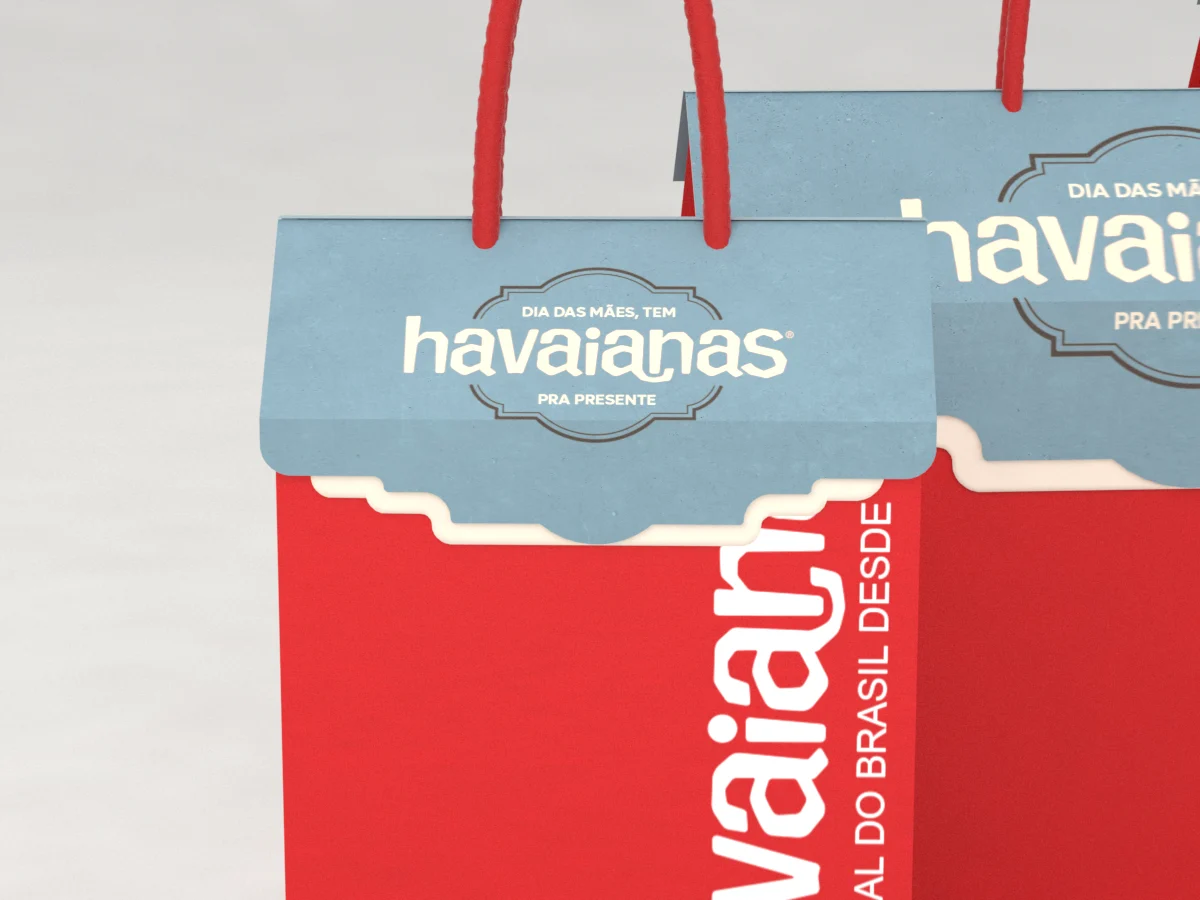
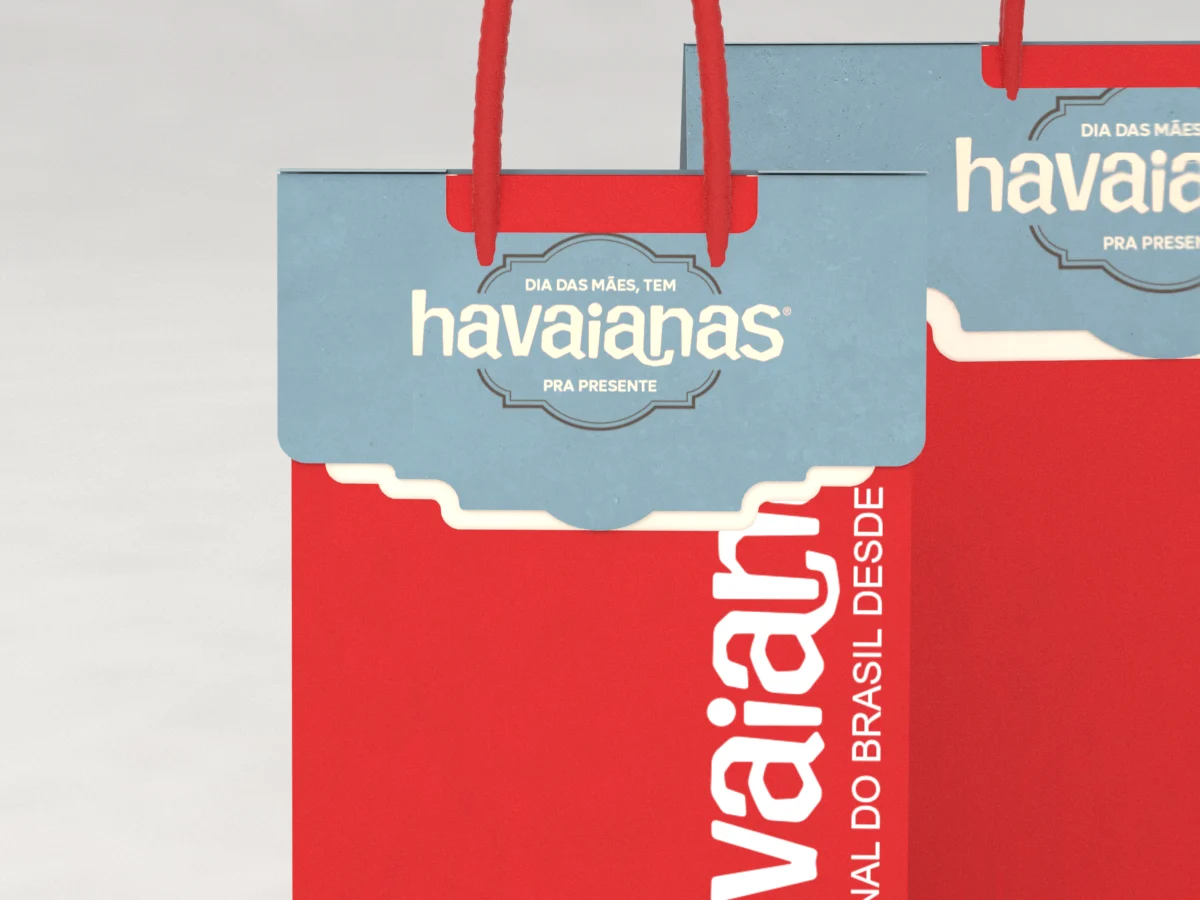
HAV009 R05: sacolas so frontal, solapa refeita, vitrine com luz corrigida

Changed region(s): [[0.2158, 0.0, 1.0, 1.0]]

diff --git a/havaianas-aura-maes-75lab/index.html b/havaianas-aura-maes-75lab/index.html
@@ -9,7 +9,7 @@
 <meta name="robots" content="noindex">
 <link rel="preconnect" href="https://fonts.googleapis.com"><link rel="preconnect" href="https://fonts.gstatic.com" crossorigin>
 <link href="https://fonts.googleapis.com/css2?family=Big+Shoulders+Display:wght@700;900&family=Space+Grotesk:wght@400;500;600;700&family=Space+Mono:wght@400;700&display=swap" rel="stylesheet">
-<link rel="stylesheet" href="assets/deck.css"><link rel="stylesheet" href="assets/bombril.css"><link rel="stylesheet" href="assets/v2.css"><link rel="stylesheet" href="assets/havaianas.css?v=202611251616">
+<link rel="stylesheet" href="assets/deck.css"><link rel="stylesheet" href="assets/bombril.css"><link rel="stylesheet" href="assets/v2.css"><link rel="stylesheet" href="assets/havaianas.css?v=202611251620">
 </head>
 <body>
 <svg width="0" height="0" style="position:absolute" aria-hidden="true">
@@ -158,9 +158,9 @@
 <section id="embalagens" class="tela s-core n" data-tema="escuro" data-titulo="Embalagens" data-cap="(02) Lojas próprias">
     <div class="caixa"><div class="gr-core">
       <div class="txt-core"><span class="eyebrow anima">Loja própria · embalagens</span><h2 class="anima">O KV vai <span class="t-lime">para casa.</span></h2><p class="lead anima d1">Dois caminhos para a sacola: impressa com a arte da campanha, ou a sacola vermelha vigente com uma solapa promocional de fechamento. Caixas só no vermelho, com luvas de borda creme; caixa envelope com a alça no topo.</p>
-        <div class="abas-b vers anima d2"><button data-aba="0" class="on" data-cursor="Ver"><i>01</i><b>Sacola impressa</b></button><button data-aba="1" class="" data-cursor="Ver"><i>02</i><b>Impressa · 3/4</b></button><button data-aba="2" class="" data-cursor="Ver"><i>03</i><b>Solapa</b></button><button data-aba="3" class="" data-cursor="Ver"><i>04</i><b>Solapa · 3/4</b></button><button data-aba="4" class="" data-cursor="Ver"><i>05</i><b>Solapa · detalhe</b></button><button data-aba="5" class="" data-cursor="Ver"><i>06</i><b>Caixas</b></button></div>
+        <div class="abas-b vers anima d2"><button data-aba="0" class="on" data-cursor="Ver"><i>01</i><b>Sacola impressa</b></button><button data-aba="1" class="" data-cursor="Ver"><i>02</i><b>Solapa</b></button><button data-aba="2" class="" data-cursor="Ver"><i>03</i><b>Caixas</b></button></div>
         <dl class="ficha-core anima d3"><dt>Caixas</dt><dd>vermelhas, com ou sem luva</dd><dt>Envelope</dt><dd>26 x 9 x 46 cm, alça no topo</dd><dt>Sacolas</dt><dd>P, M e G, impressa ou com solapa</dd><dt>Solapa</dt><dd>papel-cartão, 2 camadas, faca especial</dd></dl></div>
-      <div class="paineis foto-core anima dir d1"><div data-painel="0" class="on"><figure class="amplia" data-amplia="assets/img/sac5-imp-1.webp" data-legenda="Sacola impressa" data-cursor="Ampliar"><img src="assets/img/sac5-imp-1.webp" alt="Sacola impressa" loading="lazy"></figure><p>Sacolas P, M e G impressas com a moldura e o lockup da campanha.</p></div><div data-painel="1" class=""><figure class="amplia" data-amplia="assets/img/sac5-imp-2.webp" data-legenda="Impressa · 3/4" data-cursor="Ampliar"><img src="assets/img/sac5-imp-2.webp" alt="Impressa · 3/4" loading="lazy"></figure><p>As três sacolas impressas em 3/4.</p></div><div data-painel="2" class=""><figure class="amplia" data-amplia="assets/img/sac5-sol-1.webp" data-legenda="Solapa" data-cursor="Ampliar"><img src="assets/img/sac5-sol-1.webp" alt="Solapa" loading="lazy"></figure><p>Sacola vermelha vigente com a solapa promocional: fecha a boca e leva a campanha.</p></div><div data-painel="3" class=""><figure class="amplia" data-amplia="assets/img/sac5-sol-2.webp" data-legenda="Solapa · 3/4" data-cursor="Ampliar"><img src="assets/img/sac5-sol-2.webp" alt="Solapa · 3/4" loading="lazy"></figure><p>A solapa em 3/4: tampa sobre a boca com rasgos para as alças.</p></div><div data-painel="4" class=""><figure class="amplia" data-amplia="assets/img/sac5-sol-close.webp" data-legenda="Solapa · detalhe" data-cursor="Ampliar"><img src="assets/img/sac5-sol-close.webp" alt="Solapa · detalhe" loading="lazy"></figure><p>Aba frontal com a moldura invertida, em duas camadas: azul e creme.</p></div><div data-painel="5" class=""><figure class="amplia" data-amplia="assets/img/pack-az-1.webp" data-legenda="Caixas" data-cursor="Ampliar"><img src="assets/img/pack-az-1.webp" alt="Caixas" loading="lazy"></figure><p>Caixas vermelhas com as luvas e a caixa envelope com alça.</p></div></div>
+      <div class="paineis foto-core anima dir d1"><div data-painel="0" class="on"><figure class="amplia" data-amplia="assets/img/sac5-imp-1.webp" data-legenda="Sacola impressa" data-cursor="Ampliar"><img src="assets/img/sac5-imp-1.webp" alt="Sacola impressa" loading="lazy"></figure><p>Sacolas P, M e G impressas com a moldura e o lockup da campanha.</p></div><div data-painel="1" class=""><figure class="amplia" data-amplia="assets/img/sac5-sol-1.webp" data-legenda="Solapa" data-cursor="Ampliar"><img src="assets/img/sac5-sol-1.webp" alt="Solapa" loading="lazy"></figure><p>Sacola vermelha vigente fechada com a solapa promocional: aba com a moldura invertida em duas camadas e rasgo para as alças.</p></div><div data-painel="2" class=""><figure class="amplia" data-amplia="assets/img/pack-az-1.webp" data-legenda="Caixas" data-cursor="Ampliar"><img src="assets/img/pack-az-1.webp" alt="Caixas" loading="lazy"></figure><p>Caixas vermelhas com as luvas e a caixa envelope com alça.</p></div></div>
     </div></div></section>
 <section id="cap-03" class="tela s-cap " data-tema="lime" data-titulo="Capítulo 03 · B2B alimentar" data-cap="(03) B2B alimentar" data-capitulo="03">
     <span class="num-cap sangra">03</span>
@@ -225,6 +225,6 @@
 <div id="cursor"></div><div id="anel"><span id="anelTxt"></span></div>
 <div id="gire"><img src="assets/75lab-lime.png" alt="75 LAB"><div class="tel"></div><h3>Gire o celular</h3><p>A apresentação foi desenhada na horizontal. Deitado, o celular mostra a tela inteira.</p><button class="botao mini" id="verAssim">Ver assim mesmo</button></div>
 <script src="assets/deck.js"></script>
-<script src="assets/havaianas.js?v=202611251616"></script>
+<script src="assets/havaianas.js?v=202611251620"></script>
 </body>
 </html>

diff --git a/havaianas-aura-maes-75lab/fonte/montar.py b/havaianas-aura-maes-75lab/fonte/montar.py
@@ -131,9 +131,8 @@ T.append(core('gift', '(02) Lojas próprias', 'Gift Station modular', 'Loja pró
      ('Cartão', 'cartao-mockup', 'Cartão de Dia das Mães que acompanha o presente.')],
     [('Estrutura', 'metalon azul, 115 x 42 x 236 cm'), ('Balcão', 'base em L de PS, 100 x 61 cm'), ('Acessórios', '5 módulos soltos'), ('Cartão', 'Dia das Mães, acompanha o presente')]))
 T.append(core('embalagens', '(02) Lojas próprias', 'Embalagens', 'Loja própria · embalagens', 'O KV vai <span class="t-lime">para casa.</span>', 'Dois caminhos para a sacola: impressa com a arte da campanha, ou a sacola vermelha vigente com uma solapa promocional de fechamento. Caixas só no vermelho, com luvas de borda creme; caixa envelope com a alça no topo.',
-    [('Sacola impressa', 'sac5-imp-1', 'Sacolas P, M e G impressas com a moldura e o lockup da campanha.'), ('Impressa · 3/4', 'sac5-imp-2', 'As três sacolas impressas em 3/4.'),
-     ('Solapa', 'sac5-sol-1', 'Sacola vermelha vigente com a solapa promocional: fecha a boca e leva a campanha.'), ('Solapa · 3/4', 'sac5-sol-2', 'A solapa em 3/4: tampa sobre a boca com rasgos para as alças.'),
-     ('Solapa · detalhe', 'sac5-sol-close', 'Aba frontal com a moldura invertida, em duas camadas: azul e creme.'),
+    [('Sacola impressa', 'sac5-imp-1', 'Sacolas P, M e G impressas com a moldura e o lockup da campanha.'),
+     ('Solapa', 'sac5-sol-1', 'Sacola vermelha vigente fechada com a solapa promocional: aba com a moldura invertida em duas camadas e rasgo para as alças.'),
      ('Caixas', 'pack-az-1', 'Caixas vermelhas com as luvas e a caixa envelope com alça.')],
     [('Caixas', 'vermelhas, com ou sem luva'), ('Envelope', '26 x 9 x 46 cm, alça no topo'), ('Sacolas', 'P, M e G, impressa ou com solapa'), ('Solapa', 'papel-cartão, 2 camadas, faca especial')]))
 # ------------------------------------------------------------ 03 · B2B
